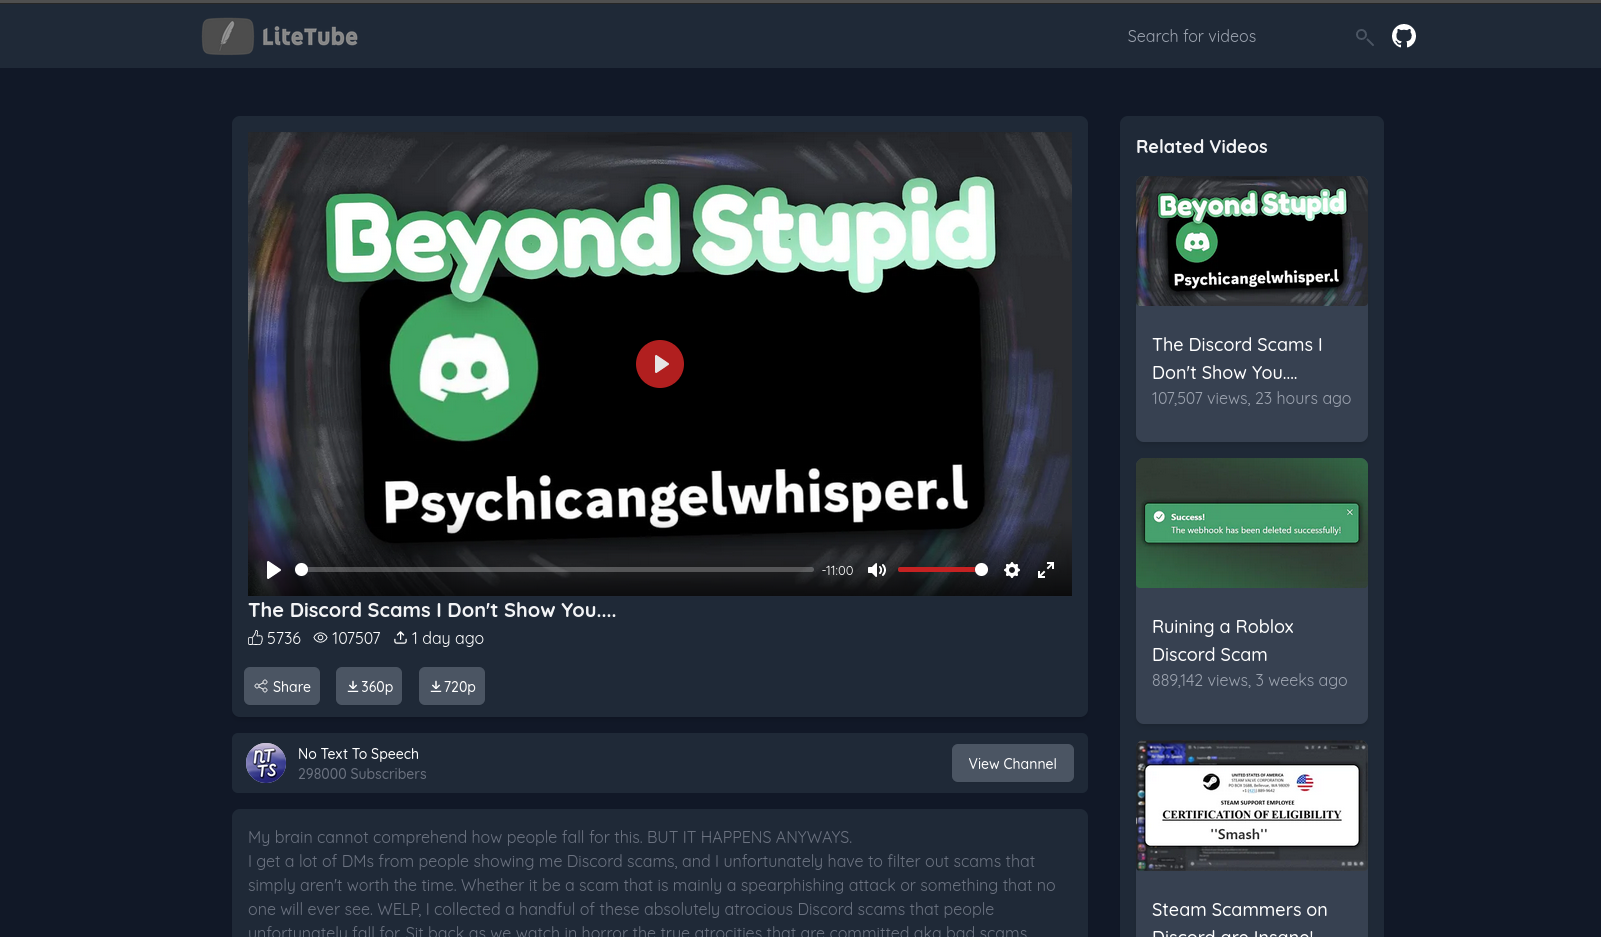
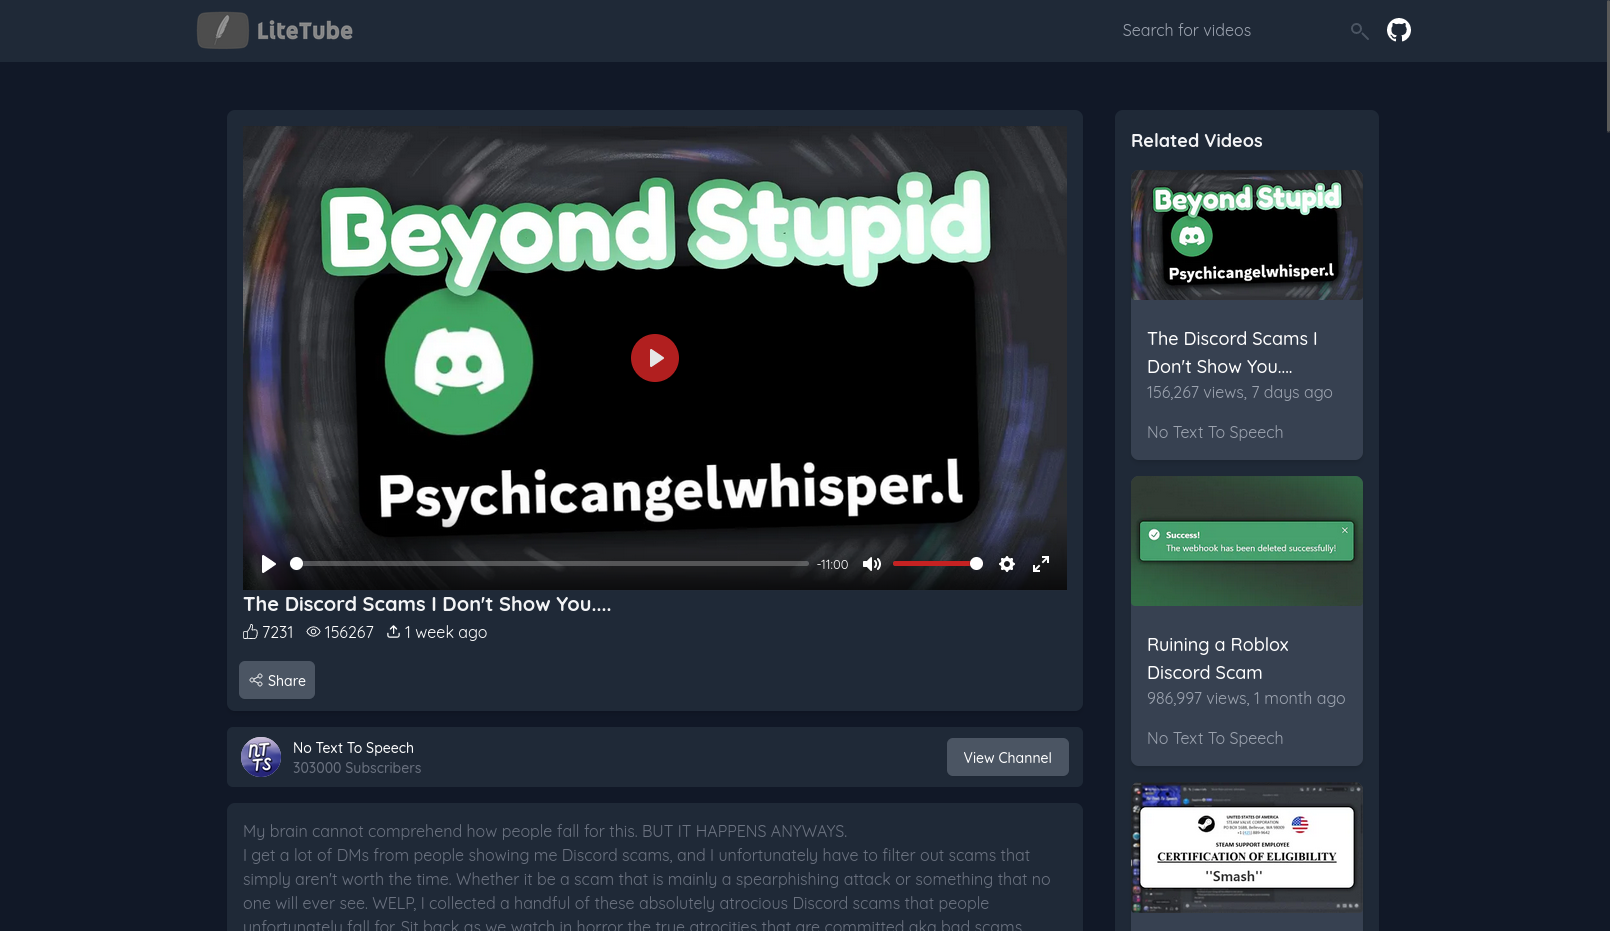
0.3.6b

diff --git a/templates/watch.html b/templates/watch.html
@@ -117,30 +117,10 @@
                     }
                 </script>
                 {% for stream in streams %}
-                <a download href="{{ streams[stream][0]["url"] }}" target="_blank" rel="noopener noreferreré type="button"
-                    class="inline-flex m-3 mr-0 mt-0 cursor-pointer items-center justify-center px-2 py-2 border border-transparent shadow-sm text-sm font-medium rounded-md text-white bg-gray-600 hover:bg-gray-700 focus:outline-transparant focus:ring-2 focus:ring-offset-2 focus:ring-gray-500">
-                    <svg width="16" viewBox="0 0 24 24" version="1.1" xmlns="http://www.w3.org/2000/svg"
-                        xmlns:xlink="http://www.w3.org/1999/xlink" fill="#000000">
-                        <g id="SVGRepo_bgCarrier" stroke-width="0"></g>
-                        <g id="SVGRepo_tracerCarrier" stroke-linecap="round" stroke-linejoin="round"></g>
-                        <g id="SVGRepo_iconCarrier">
-                            <title>Download-3</title>
-                            <g id="Page-1" stroke="none" stroke-width="1" fill="none" fill-rule="evenodd">
-                                <g id="Download-3">
-                                    <rect id="Rectangle" fill-rule="nonzero" x="0" y="0" width="24" height="24"> </rect>
-                                    <line x1="12" y1="5" x2="12" y2="15" id="Path" stroke="#ffffff" stroke-width="2"
-                                        stroke-linecap="round"> </line>
-                                    <path
-                                        d="M17,11 L12.7071,15.2929 C12.3166,15.6834 11.6834,15.6834 11.2929,15.2929 L7,11"
-                                        id="Path" stroke="#ffffff" stroke-width="2" stroke-linecap="round"> </path>
-                                    <line x1="19" y1="20" x2="5" y2="20" id="Path" stroke="#ffffff" stroke-width="2"
-                                        stroke-linecap="round"> </line>
-                                </g>
-                            </g>
-                        </g>
-                    </svg>
-                    {{ stream }}
-                </a>
+                <!--
+                    i deleted this for legal raisons (sorry)
+                    - @mollomm1
+                -->
                 {% endfor %}
             </div>
             <button type="button"
@@ -188,7 +168,7 @@
                             </a>
                             <div class="flex flex-col"></div>
                             <p class="mt-auto p-4 pt-0 text-gray-400 hover:text-gray-300"><a class=""
-                                    href="{{ result['owner_url'].replace('https://www.youtube.com', '') }}">{{ result['author'] }}</a>
+                                    href="{{ '/c'+(result['owner_url']) }}">{{ result['channel'] }}</a>
                             </p>
                         </div>
                         {% endfor %}

diff --git a/main.py b/main.py
@@ -1,7 +1,9 @@
 # importing the necessary libraries and modules
 from flask import Flask, render_template, request, redirect, Response
 from waitress import serve
-import requests, urllib.parse, re
+import requests
+import urllib.parse
+import re
 from liblitetube.main import *
 
 # change variables here

diff --git a/liblitetube/search.py b/liblitetube/search.py
@@ -1,5 +1,8 @@
 # Import necessary libraries
-import requests, urllib.parse, re, json
+import requests
+import urllib.parse
+import re
+import json
 from . lt_misc import *
 
 def SearchLoadPage(continuation_token, key):

diff --git a/README.md b/README.md
@@ -14,6 +14,8 @@ side note: demo is slow to start since it's hosted on replit, it take time to st
 
 `⚠ This project is currently a work in progress and is still unfinished. While I'm actively working on it and making progress, there may still be bugs and incomplete features. ⚠`
 
+<sub><sup><span style="color:red">`⚠ Legal Disclaimer ⚠: LiteTube frontend does not download or host any of the videos or content displayed on it. All content is streamed directly from the original YouTube servers. We are not responsible for the content uploaded by third-party users on YouTube, and we do not have control over the availability or accuracy of the content. LiteTube not affiliated with YouTube or Google, and LiteTube is not endorsed or certified by them.`</span></sub></sup>
+
 # Feature
 * Ad Free
 * Fast and Lite
